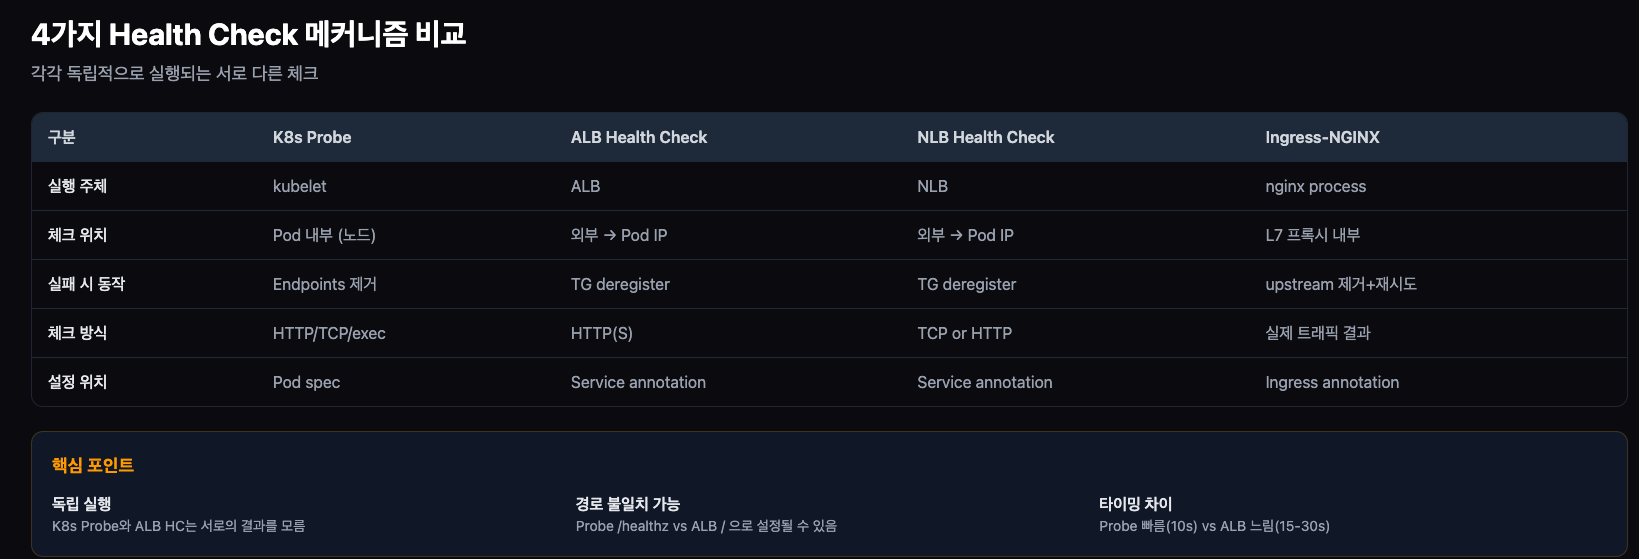
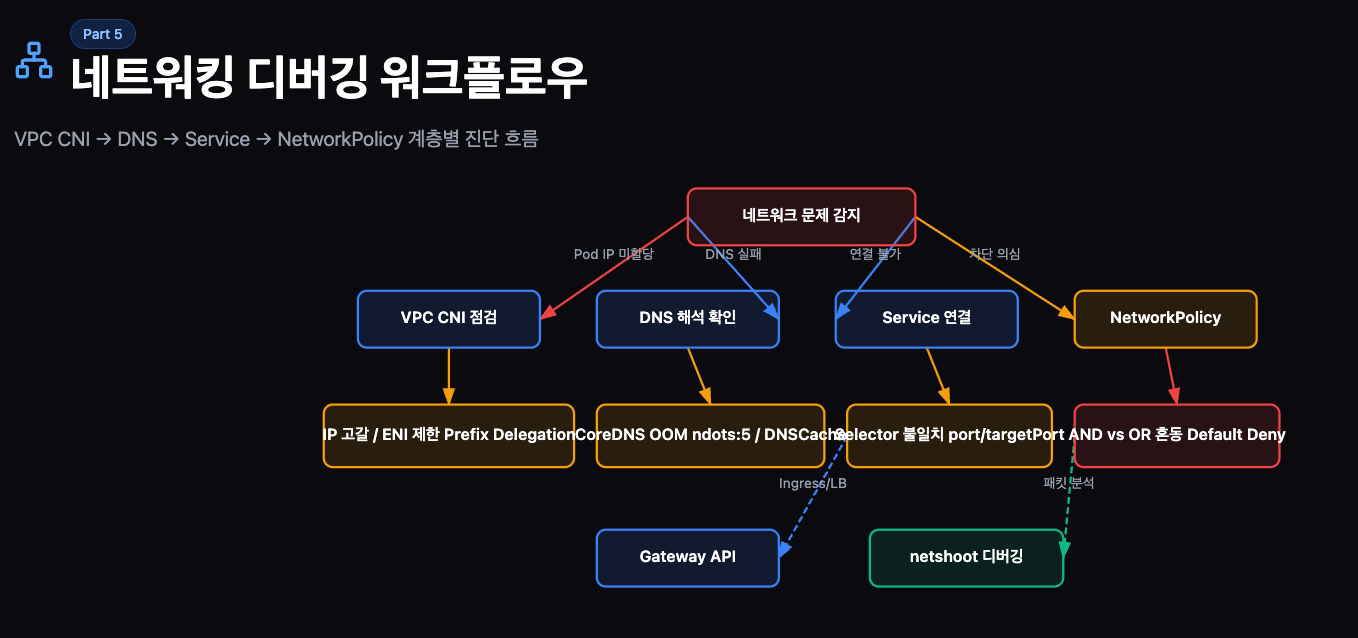
update networking

diff --git a/docs/EKS/Debugging/health-check.md b/docs/EKS/Debugging/health-check.md
@@ -58,11 +58,160 @@ Independent execution of K8s Probes and Load Balancer (e.g., ALB) Health Checks 
 *   **Path Mismatch:** K8s may probe `/healthz` while the ALB defaults to `/`, leading to inconsistent health status.
 *   **Timing Gap:** K8s Probes are typically fast (~10s), whereas ALB Health Checks are slower (~15-30s), creating a window where traffic may be sent to an unready Pod.
 
+---
+
+## Timing Matrix
+
+Default setting comparison — where mismatches create failures:
+
+| Setting | K8s Probe | ALB HC | NLB HC | Ingress-NGINX |
+| :--- | :--- | :--- | :--- | :--- |
+| **Default interval** | 10s | 15s | 30s | - (Actual traffic) |
+| **Default timeout** | 1s | 5s | 6s | 60s (`proxy_read_timeout`) |
+| **Failure threshold** | 3 | 2 (unhealthy) | 3 | - |
+| **Success threshold** | 1 | 2 (healthy) | 3 | - |
+| **Executor** | kubelet | ALB | NLB | nginx |
+| **Action on failure** | Remove Endpoints | TG deregister | TG deregister | Remove upstream |
+| **Check path** | `/healthz` etc. | `/` or custom | TCP or HTTP | Actual request path |
+
+---
+
+## Deep Dive: Mismatch Risks
+
+### 1. The "Ghost Pod" Phenomenon (Ready vs. Healthy)
+When a new Pod is deployed, K8s marks it as `Ready` almost immediately after the `readinessProbe` passes. However, the ALB requires several successful consecutive health checks (based on the `HealthyThresholdCount`) to move the target into a `Healthy` state.
+*   **The Risk:** K8s might start terminating old Pods (during rolling updates) before the ALB has actually started routing traffic to the new ones, leading to a temporary capacity drop or 503 errors.
+
+### 2. Path & Port Discrepancies
+Developers often configure `readinessProbe` to a dedicated endpoint like `/healthz`, but forget to update the ALB Target Group settings.
+*   **The Risk:** The app returns `200 OK` on `/healthz` (K8s is happy), but the ALB checks `/` and receives a `404 Not Found` or `403 Forbidden`. The ALB will mark the Pod as `Unhealthy` and stop routing traffic, even though the Pod is perfectly fine according to K8s.
+
+### 3. Graceful Shutdown & Deregistration Delay
+When a Pod is deleted, K8s removes it from the Endpoints list. Simultaneously, the AWS Load Balancer Controller starts the deregistration process in the ALB Target Group.
+*   **The Risk:** If the ALB `deregistration_delay.timeout_seconds` (default 300s) is longer than the Pod's `terminationGracePeriodSeconds` (default 30s), the ALB may continue to send traffic to a Pod that has already stopped its application process, resulting in `502 Bad Gateway`.
+
+### 4. Timeout Cascade
+ALB timeouts and application timeouts must be carefully aligned.
+*   **The Risk:** If the ALB `idle_timeout` is 60s but your Backend API takes 65s to process a request, the ALB will close the connection and return a `504 Gateway Timeout`, while your Backend continues to consume resources to finish the doomed task.
+
+---
+
+## Troubleshooting Pattern: Probe OK + ALB 503
+
+When users see **503 errors** despite the Pod being **Ready** in Kubernetes, follow this decision tree to identify and resolve the issue:
+
+1.  **Check Pod Readiness:**
+    *   If **Not Ready** → Fix the `readinessProbe` configuration in the Pod spec.
+2.  **Verify Endpoints:**
+    *   If **Missing** → Ensure the Service selector matches the Pod labels.
+3.  **Inspect Target Group (TG) Health:**
+    *   If **Unhealthy**, investigate:
+        *   **HC Path Mismatch?** (Most common: `readinessProbe` uses `/healthz` but ALB checks `/`) → **Fix:** Unify `healthcheck-path`.
+        *   **Timeout Issues?** → **Fix:** Increase the health check timeout settings.
+    *   If **Healthy**, check:
+        *   **Security Groups (SG):** Ensure the Node SG allows inbound traffic from the ALB SG → **Fix:** Add SG inbound rule.
+
+---
+
+## Troubleshooting Pattern: 502 Bad Gateway during Shutdown
+
+When users see **502 errors** specifically during deployments or Pod terminations, it is usually due to a timing mismatch between Pod termination and ALB deregistration.
+
+### The Problem: Timing Mismatch
+*   **T+0s:** Pod enters `Terminating` state. K8s starts the `preStop` hook, then sends `SIGTERM`.
+*   **T+0s:** ALB starts the deregistration process and enters `connection draining` mode.
+*   **T+1s:** The application process terminates (after receiving `SIGTERM`).
+*   **T+300s (Default):** ALB completes deregistration and stops connection draining.
+*   **Result:** Between T+1s and T+300s, the ALB is still draining connections and may send traffic to a Pod that has already closed its application process, causing a **502 Bad Gateway**.
+
+### The Solution: Synchronize Timings
+1.  **Reduce ALB Deregistration Delay:** Lower `deregistration_delay.timeout_seconds` to a shorter value, e.g., `15s`.
+2.  **Add `preStop` Hook:** Use `sleep 15` in the Pod spec to ensure the application waits for the ALB to stop routing new traffic before it actually shuts down.
+3.  **SIGTERM Handler:** Ensure the application implements a proper SIGTERM handler to finish processing existing requests before exiting.
+
+### Shutdown Sequence Formula
+
+To correctly calculate the required `terminationGracePeriodSeconds`, use the following formula:
+
+**`terminationGracePeriodSeconds = deregistration_delay + preStop_sleep + app_shutdown_buffer`**
+
+*Example Calculation:*
+*   `15s` (deregistration) + `15s` (preStop sleep) + `10s` (app shutdown buffer) = **`40s`** (total grace period)
+
+#### Recommended YAML Configuration
+
+```yaml
+spec:
+  terminationGracePeriodSeconds: 40
+  containers:
+  - name: app
+    lifecycle:
+      preStop:
+        exec:
+          command:
+          - /bin/sh
+          - -c
+          - |
+            # Wait for ALB deregistration to be detected
+            sleep 15
+---
+# Service annotation
+metadata:
+  annotations:
+    alb.ingress.kubernetes.io/target-group-attributes: deregistration_delay.timeout_seconds=15
+```
+
+---
+
+## Troubleshooting Pattern: Temporary 503 during Rolling Update
+
+During a deployment, users may experience brief 503 errors. This is often caused by a **Timing Mismatch** between Kubernetes and the ALB.
+
+### The Problem: Timing Gap
+*   **T+10s:** K8s marks the new Pod as `Ready` (Probe succeeds).
+*   **T+10s:** K8s stops sending traffic to the old Pod.
+*   **T+10~30s:** The ALB Health Check has not yet passed for the new Pod.
+*   **Result:** For about 20 seconds, there is no healthy target in the ALB, resulting in **503 Service Unavailable**.
+*   **T+30s:** ALB Health Check passes (e.g., 2 consecutive successes) and traffic starts flowing again.
+
+### The Solution: Deployment Controls
+1.  **`minReadySeconds: 30`:** Force K8s to wait for a specific period before considering the Pod as "Ready." This should be long enough to cover the `ALB HC interval * threshold`.
+2.  **`maxUnavailable: 1`:** Ensure that only a limited number of Pods are taken offline at once.
+3.  **Pod Disruption Budget (PDB):** Set `minAvailable: 50%` (or similar) to guarantee a minimum level of service availability during the update.
+
+---
+
+## Troubleshooting Pattern: NLB Traffic Imbalance (Local Policy)
+
+When using `externalTrafficPolicy: Local` with an NLB, you might notice uneven traffic distribution across your nodes.
+
+### The Problem: Node-Level Health Checks
+*   **Node 1:** Has 2 Pods (A, B). Health Check succeeds.
+*   **Node 2:** Has 0 Pods. Health Check fails; the Node is removed from the Target Group.
+*   **Node 3:** Has 1 Pod (C). Health Check succeeds.
+*   **Result:** Traffic is split equally between Node 1 and Node 3. However, Node 1 receives twice as much traffic per Pod as Node 3.
+
+### Policy Selection Guide
+*   **`Local`:** Use this when you must **preserve the Client IP** and can guarantee at least 1 Pod per Node.
+*   **`Cluster`:** Use this when **uniform load balancing** is the priority. Use `X-Forwarded-For` to identify client IPs if needed.
+
+---
+
+## Recommended Solutions
+
+1.  **Sync Paths:** Always ensure `readinessProbe.httpGet.path` matches the ALB annotation `alb.ingress.kubernetes.io/healthcheck-path`.
+2.  **Adjust Thresholds:** Lower the ALB `HealthyThresholdCount` to `2` and reduce the `IntervalSeconds` to speed up the "Ready to Healthy" transition.
+3.  **Align Graceful Shutdown:** 
+    *   Set `terminationGracePeriodSeconds` to be slightly longer than the ALB deregistration delay.
+    *   Use a `preStop` hook to wait (e.g., `sleep 20`) to allow the ALB to stop sending new traffic before the app starts shutting down.
+4.  **Security Groups:** Ensure the Node Security Group allows inbound traffic from the ALB Security Group on the application port (or the specific Health Check port).
+
+---
+
 ## Real-World Incident
 
 | Situation | Result | Impact |
 | :--- | :--- | :--- |
 | `readinessProbe`: `/healthz`<br>`ALB HC`: `/` (default) | **K8s:** Pod Ready<br>**ALB:** Unhealthy (404) | 503 Errors for users<br>**MTTR: 2 hours** (hard to debug) |
 
----
 

diff --git a/docs/EKS/Debugging/networking.md b/docs/EKS/Debugging/networking.md
@@ -1,0 +1,143 @@
+# Networking Debugging
+
+EKS networking follows a layered architecture. Debugging should follow a systematic workflow from the physical network layer up to the application policies.
+
+## Networking Debugging Workflow
+
+Follow this step-by-step diagnostic flow to identify the root cause of connectivity issues.
+
+<div class="grid cards" markdown>
+
+-   :material-lan-check:{ .lg .middle style="color: #4285F4" } **1. VPC CNI Layer**
+
+    ---
+
+    **Focus:** Pod IP allocation and ENI capacity.
+    
+    *   **Check:** Is the Pod IP assigned?
+    *   **Issues:** IP exhaustion in subnets, ENI limits reached, or Prefix Delegation issues.
+
+-   :material-dns:{ .lg .middle style="color: #34A853" } **2. DNS Resolution**
+
+    ---
+
+    **Focus:** Service discovery and external resolution.
+
+    *   **Check:** Can the Pod resolve internal/external hostnames?
+    *   **Issues:** CoreDNS OOM kills, `ndots:5` performance overhead, or lack of NodeLocal DNSCache.
+
+-   :material-vector-link:{ .lg .middle style="color: #FBBC05" } **3. Service & Connectivity**
+
+    ---
+
+    **Focus:** Load balancing and service routing.
+
+    *   **Check:** Is the Service endpoint correctly populated?
+    *   **Issues:** Selector mismatches, `port` vs `targetPort` confusion, or Ingress/LB/Gateway API misconfigurations.
+
+-   :material-shield-sync:{ .lg .middle style="color: #EA4335" } **4. NetworkPolicy**
+
+    ---
+
+    **Focus:** Security and access control.
+
+    *   **Check:** Are there any policies blocking the traffic?
+    *   **Issues:** Default Deny rules, "AND" vs "OR" logic confusion in selectors, or missing egress/ingress rules.
+
+</div>
+
+## Diagnostic Tools
+
+For deep packet analysis and network troubleshooting, use **netshoot**.
+*   **Usage:** Run as a sidecar or a standalone Pod to perform `tcpdump`, `dig`, `curl`, and other network tests from within the VPC network.
+
+---
+
+## Deep Dive: VPC CNI & IP Management
+
+Issues at the VPC CNI layer often manifest as Pods stuck in the `ContainerCreating` state.
+
+### Common VPC CNI Issues
+
+<div class="grid cards" markdown>
+
+-   :material-ip-network-outline:{ .lg .middle style="color: #FF5277" } **IP Exhaustion**
+
+    ---
+
+    **Symptom:** Pods stuck in `ContainerCreating`.
+    
+    Occurs when the assigned subnet has no available IP addresses left for new Pods.
+
+-   :material-lan-disconnect:{ .lg .middle style="color: #FF4081" } **ENI Limits**
+
+    ---
+
+    Each EC2 instance type has a hard limit on the number of ENIs and IPs per ENI.
+    
+    *Example:* `c5.xlarge` supports 4 ENIs with 15 IPs each (Max 58 Pods).
+
+-   :material-expand-all:{ .lg .middle style="color: #34A853" } **Prefix Delegation**
+
+    ---
+
+    Increases IP capacity by **16x** by assigning /28 prefixes to ENIs instead of individual IPs.
+    
+    *Example:* `c5.xlarge` capacity increases up to **110 Pods**.
+
+</div>
+
+### Useful Commands
+
+**Check available IPs in a subnet:**
+```bash
+aws ec2 describe-subnets --subnet-ids <subnet-id> \
+  --query 'Subnets[].{ID:SubnetId,AZ:AvailabilityZone,Available:AvailableIpAddressCount}'
+```
+
+**Enable Prefix Delegation:**
+```bash
+kubectl set env daemonset aws-node -n kube-system ENABLE_PREFIX_DELEGATION=true
+```
+
+**Check current Node allocatable Pods:**
+```bash
+kubectl get nodes -o json | jq '.items[] | {name: .metadata.name, allocatable_pods: .status.allocatable.pods}'
+```
+
+---
+
+## Deep Dive: Service Connectivity
+
+When a service connection fails, follow this diagnostic tree to locate the issue.
+
+### Service Diagnosis Workflow
+
+1.  **Check Endpoints:** `kubectl get endpoints <service-name>`
+2.  **Analyze Results:**
+    *   **If `<none>` (Endpoints empty):**
+        *   **Selector Label Mismatch:** The Service `selector` doesn't match any Pod labels.
+        *   **Pod Not Ready:** The Pods match but haven't passed their readiness probes.
+    *   **If IPs exist (Endpoints present):**
+        *   **`port` / `targetPort` Mismatch:** The Service is sending traffic to a port the container isn't actually listening on.
+        *   **Network Issues:** Blocked by `kube-proxy` rules, NetworkPolicies, or AWS Security Groups.
+
+### Core Diagnostic Commands
+
+**Check Endpoints:**
+```bash
+kubectl get endpoints <service-name>
+```
+
+**Compare Service Selector and Pod Labels:**
+```bash
+kubectl get svc <svc> -o jsonpath='{.spec.selector}'
+kubectl get pods --show-labels
+```
+
+**Check the Actual Listening Port of a Pod:**
+```bash
+kubectl get pod <pod> -o jsonpath='{.spec.containers[*].ports[*].containerPort}'
+```
+
+---